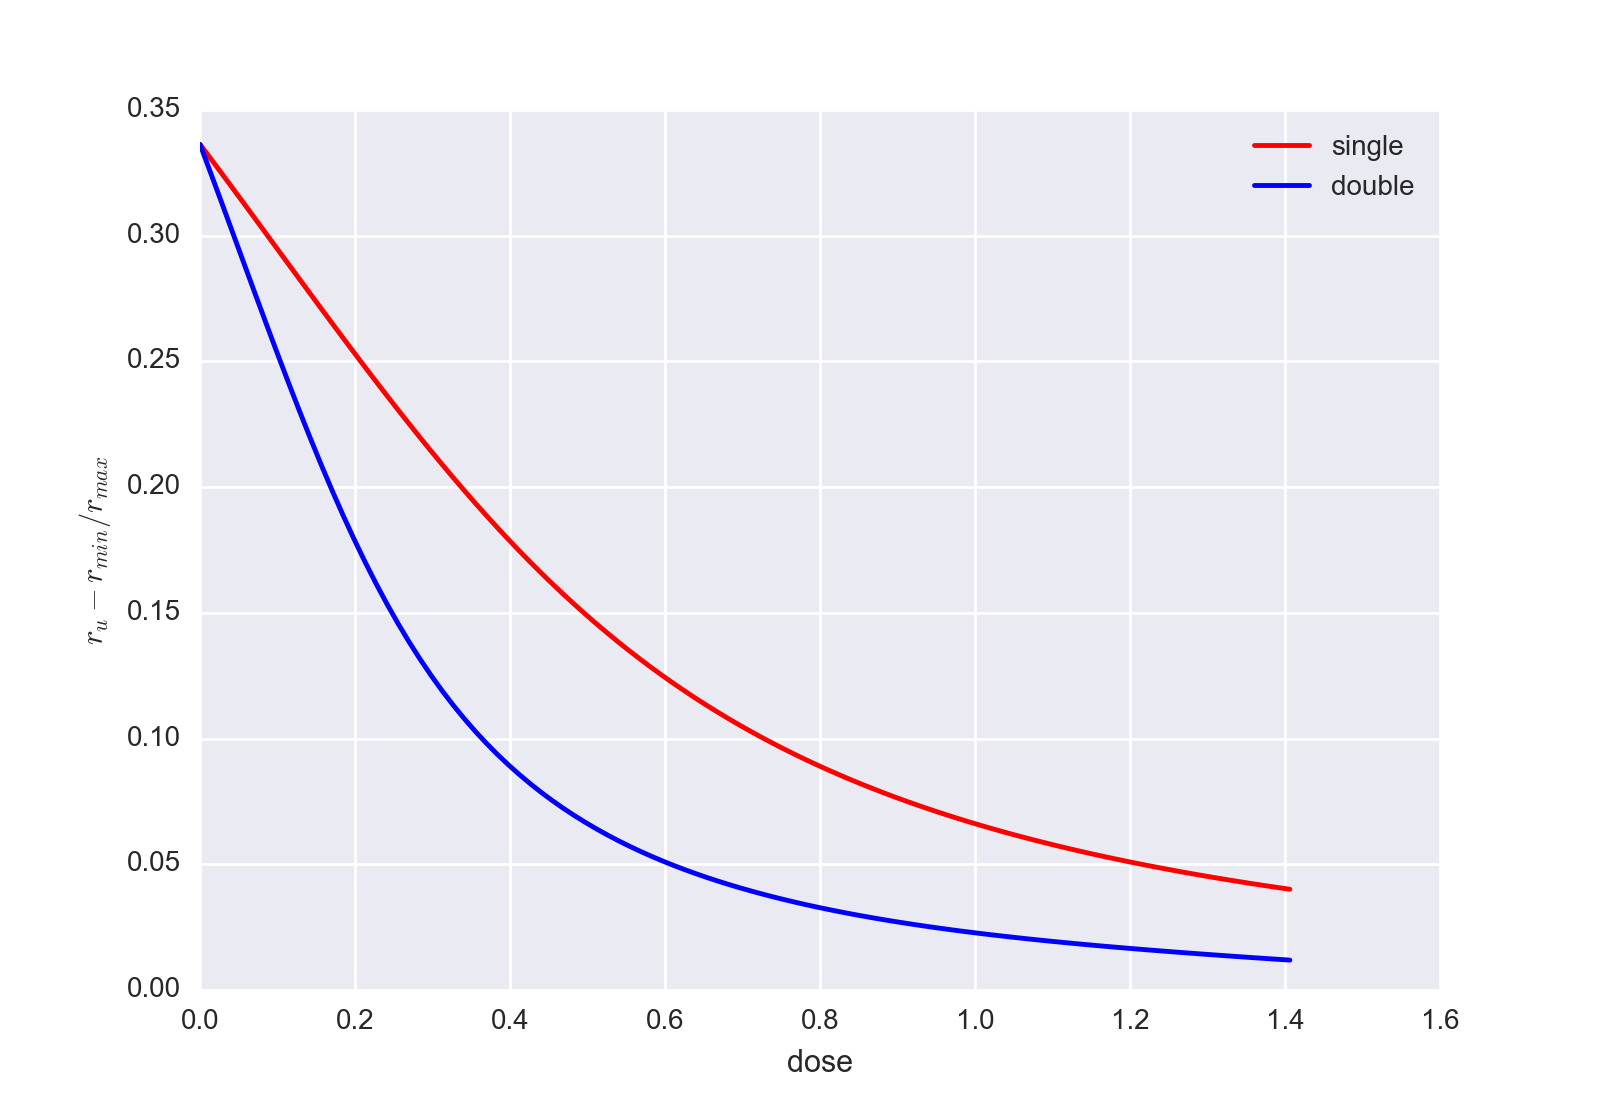
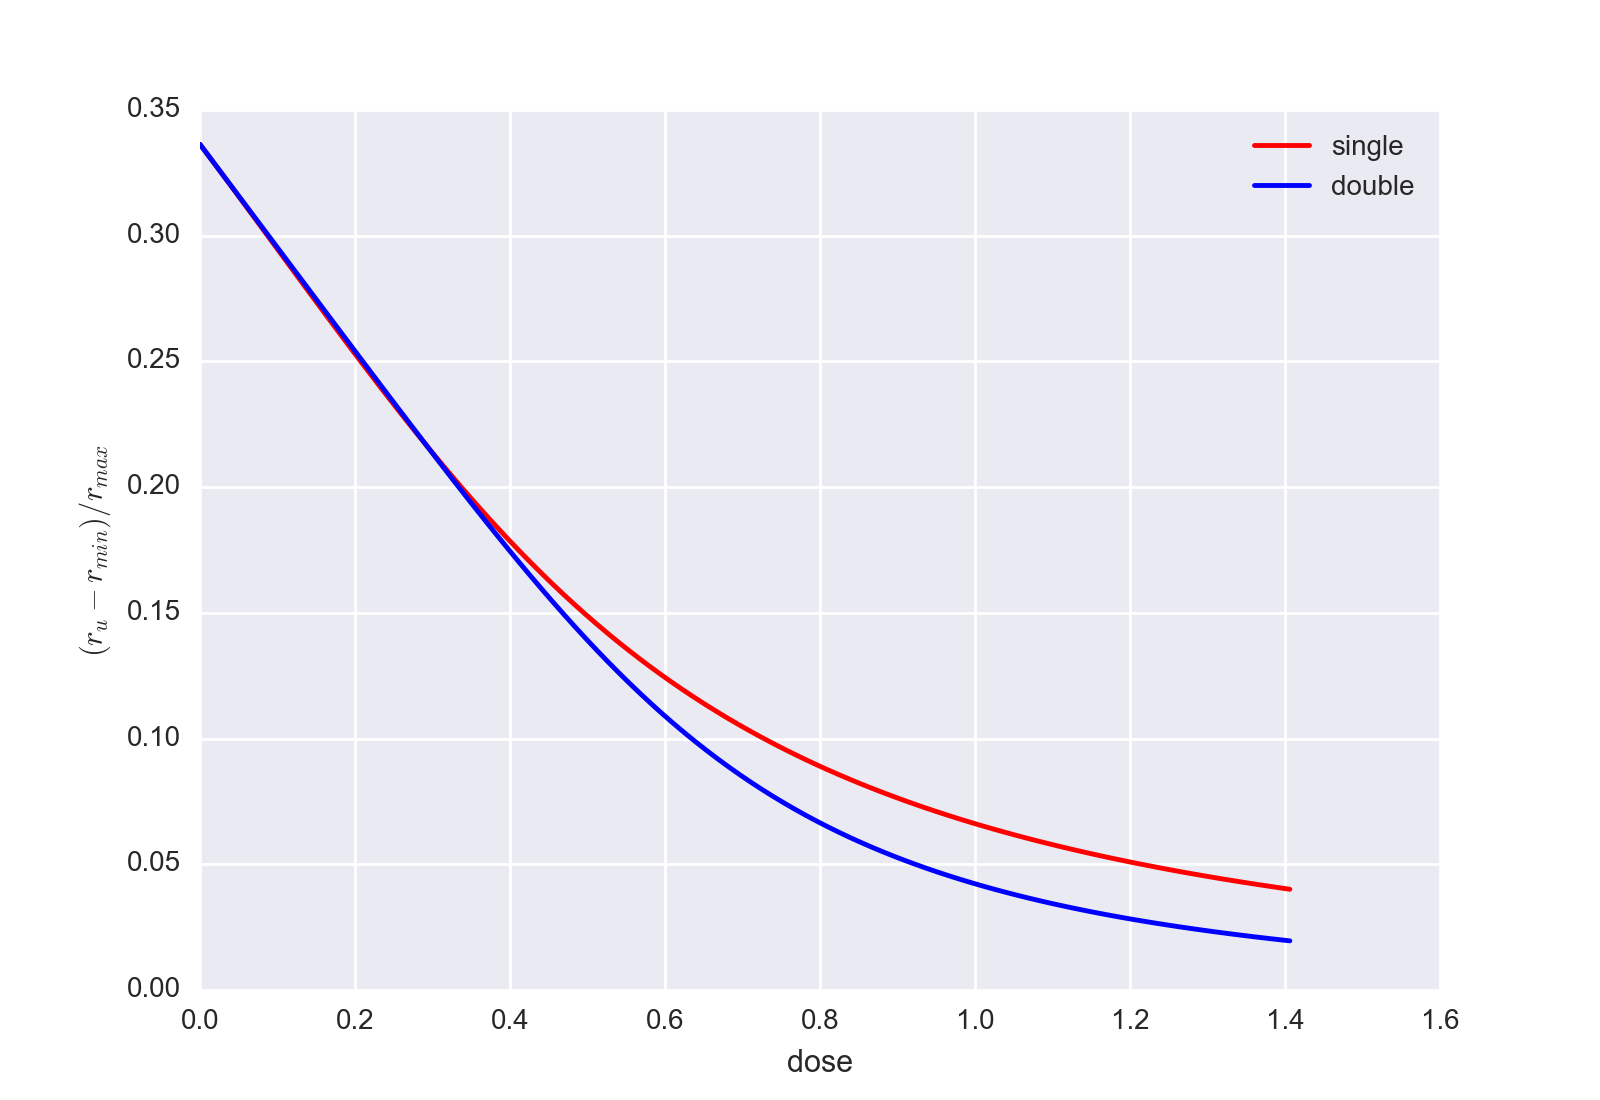
50sに修正 & doseを半分に変更

diff --git a/run.py b/run.py
@@ -43,7 +43,7 @@ def double(drug, dose):
     drug[1]["dose"] = dose
     return(run(drug, step=100, inpData={"modif": 0}, legend=["r_u"])[0][-1][1])
 
-data = pd.DataFrame([[dose, (single(drug_single, dose) - r_min) / r_max, (double(drug_double, dose) - r_min) / r_max] for dose in doses],
+data = pd.DataFrame([[dose, (single(drug_single, dose) - r_min) / r_max, (double(drug_double, dose / 2) - r_min) / r_max] for dose in doses],
                     columns=["dose", "single", "double"])
 
 
@@ -52,4 +52,4 @@ plt.plot(data["dose"], data["double"], "b-", label="double")
 plt.legend(loc="upper right")
 plt.xlabel("dose")
 plt.ylabel("$(r_{u} - r_{min}) / r_{max}$")
-plt.savefig("images/ribo6/check_growth/no_lambda.png", dpi=200)
+plt.savefig("images/ribo6/check_growth/no_lambda_sup.png", dpi=200)

diff --git a/cynergistic_check.py b/cynergistic_check.py
@@ -138,8 +138,8 @@ def createModel(drugs=[], r_max=65.8, r_min=19.3, K_D=1., K_t=6.1*10**-2, K_on=3
 
         ## ribo and subunit
         # production
-        ~r30_u > r30_u | SUP
-        ~r50_u > r50_u | SUP
+        # ~r30_u > r30_u | SUP
+        # ~r50_u > r50_u | SUP
 
         # bonding
         r30_u + r50_u > r_u | Ka * r30_u * r50_u
